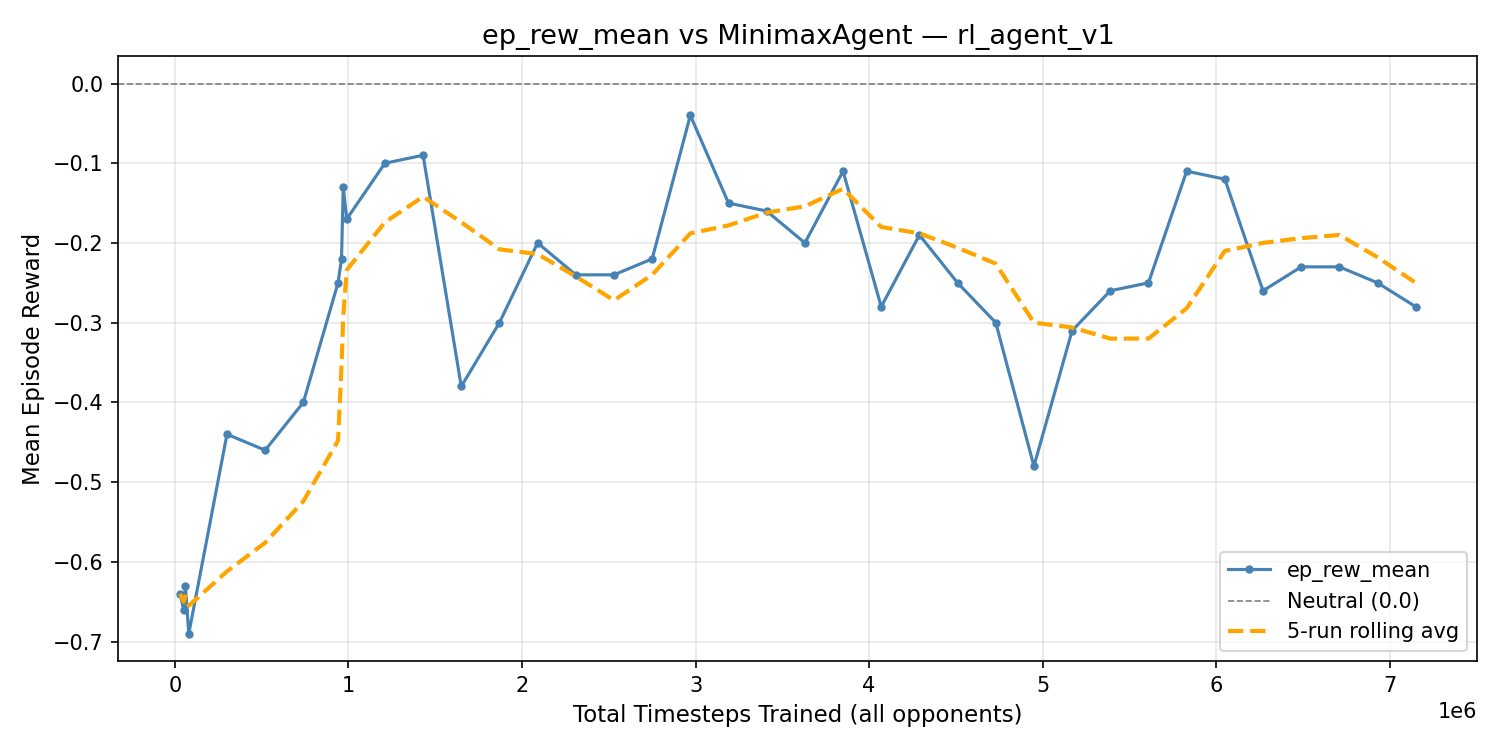
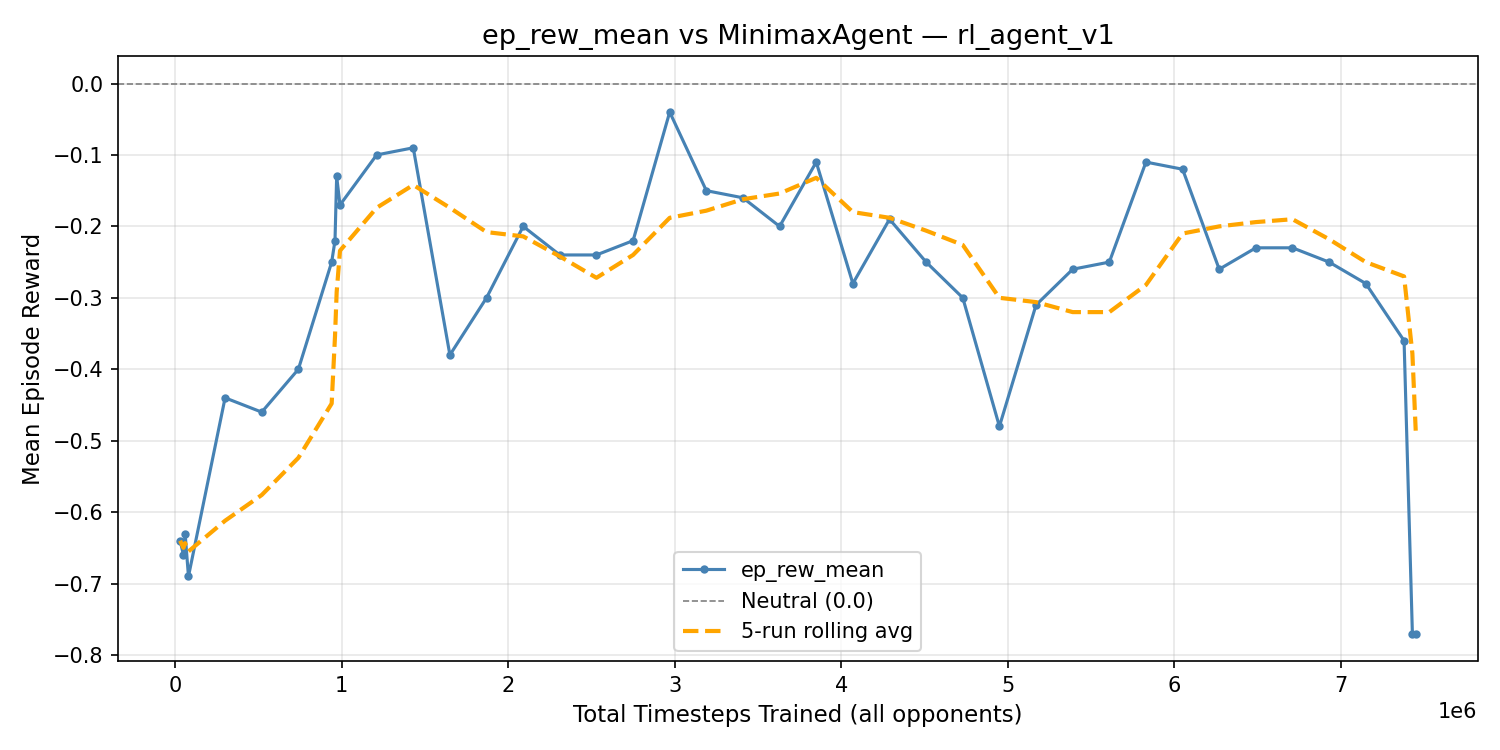
Update: Readme

diff --git a/engines/rl/train.py b/engines/rl/train.py
@@ -133,7 +133,6 @@ if __name__=="__main__":
     """
     Basic two part loop to train a new model from scratch with updated logging. 
     """
-    """
     # Initial random and minimax training for baseline
     initial_config = [
         (RandomAgent, 10000, None),
@@ -144,14 +143,8 @@ if __name__=="__main__":
     # Main training loop to run overnight
     main_config = [
         (MinimaxAgent, 20000, None),
-        (StockfishAgent, 50000, None),
-        (rlAgent, 150000, "models/rl_agent_v2")
+        (StockfishAgent, 30000, None),
+        (rlAgent, 170000, "models/rl_agent_v2")
     ]
     while True:
         handle_training(agent_class=rlAgent, config=main_config, use_wandb=False, model_path="models/rl_agent_v2")
-    """
-    initial_config = [
-        (RandomAgent, 1000, None),
-        (rlAgent, 1000, "models/rl_agent_v2"),
-    ]
-    handle_training(agent_class=rlAgent, config=initial_config, use_wandb=False, model_path="models/rl_agent_v2")

diff --git a/README.md b/README.md
@@ -80,20 +80,41 @@ The agent is trained using a staged curriculum:
 Training metrics (ep_rew_mean) and Elo ratings are logged per run and updated automatically.
 
 ---
+## Improvements in v2
+
+Discovered a large bug present for all of v1 training, where opponent model wasn't loading, meaning self play was actually against the random agent.
+Applied fix, and as it gave opportunity to train new agent implemented some architecture improvements.
+
+- **Bug fix** — opponent model loading was failing silently during self-play, meaning v1's "self-play" training.
+- **More input planes** — expanded board representation from 8x8x12 to 8x8x20, adding turn indicator, castling rights (4 planes), en passant, repetition, and move count threshold.
+- **Fictitious Self-Play** — opponent in self-play sampled 20% of the time from a pool of past snapshots, addressing strategy cycling. 
+- **PPO hyperparameter tuning** — gamma=0.995 (default 0.99) for long chess games, ent_coef=0.01 (default 0) for explicit exploration regularisation, n_steps=4096 for more samples per update.
+- **Draw penalty** — small negative reward (-0.1) for draws to discourage repetition-based stalling.
+- **Random colour assignment** — agent trains as both white and black, balanced 50/50.
+- **Opponent temperature with decay** — opponent occasionally plays random moves (0.2 → 0.05) to encourage exploration of novel positions during self-play.
+
+---
 
 ## Training Results
 
-### Performance vs Minimax
+### v1 (baseline — 12-plane representation)
 
+#### Performance vs Minimax
 <img src="visualisation/rl_agent_v1/MinimaxAgent.png" width="500"/>
 
-### Performance vs Stockfish
-
+#### Performance vs Stockfish
 <img src="visualisation/rl_agent_v1/StockfishAgent.png" width="500"/>
+
+### v2 (richer representation + FSP)
+
+#### Performance vs Minimax
+<img src="visualisation/rl_agent_v2/MinimaxAgent.png" width="500"/>
+
+#### Performance vs Stockfish
+<img src="visualisation/rl_agent_v2/StockfishAgent.png" width="500"/>
 
 *Graphs show mean episode reward over total timesteps trained. Orange line is 5-run rolling average. Above 0 = net positive reward.*
 
----
 
 ## Current Elo Ratings
 
@@ -183,9 +204,7 @@ python -m evaluation.plot_training --model models/rl_agent_v1
 ## Potential Future Improvements
 
 - **Reward shaping** — small intermediate rewards for material gain to speed up tactical learning while preserving the emergent learning premise
-- **Self-play temperature** — occasionally forcing random moves during self-play to prevent repetitive patterns and encourage exploration
 - **Longer survival reward** — rewarding the agent for surviving more moves to discourage early collapse
 - **MCTS at inference** — replacing greedy policy sampling with Monte Carlo Tree Search for stronger play at inference time without retraining
 - **ResNet architecture** — replacing the CNN with a residual network for richer positional feature learning
-- **Random colour assignment** — training as both white and black for more balanced play
 - **Meta-learning** — training a reward function that maximises learning speed rather than hand-designing rewards, inspired by the idea of self-improving reward mechanisms